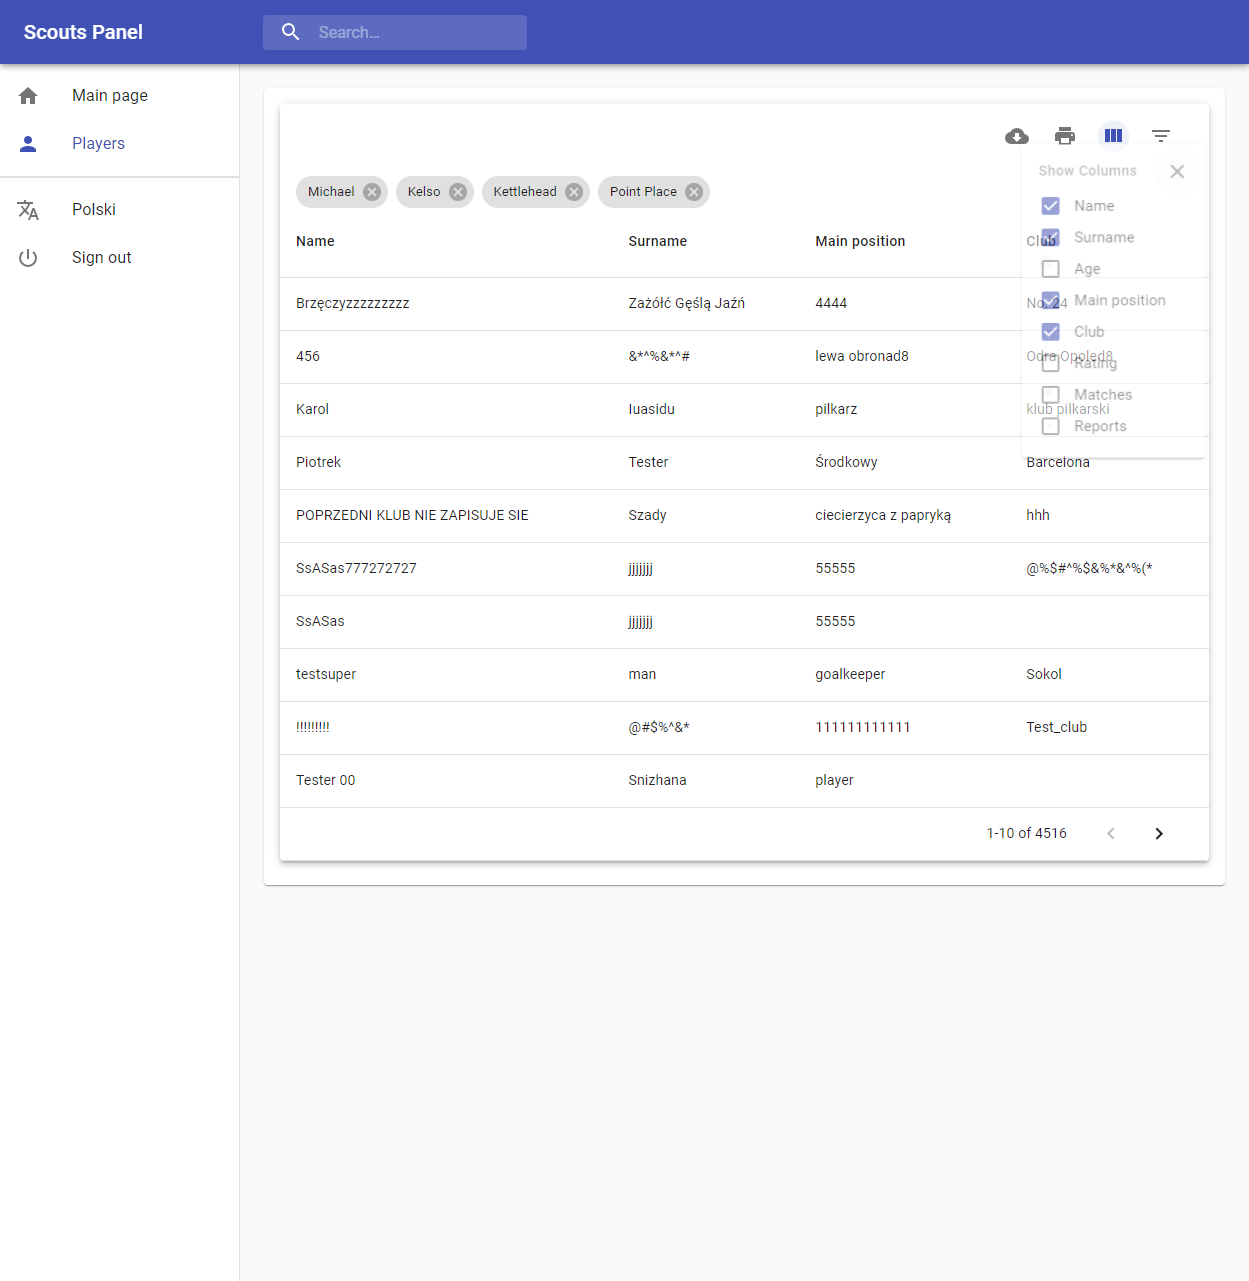
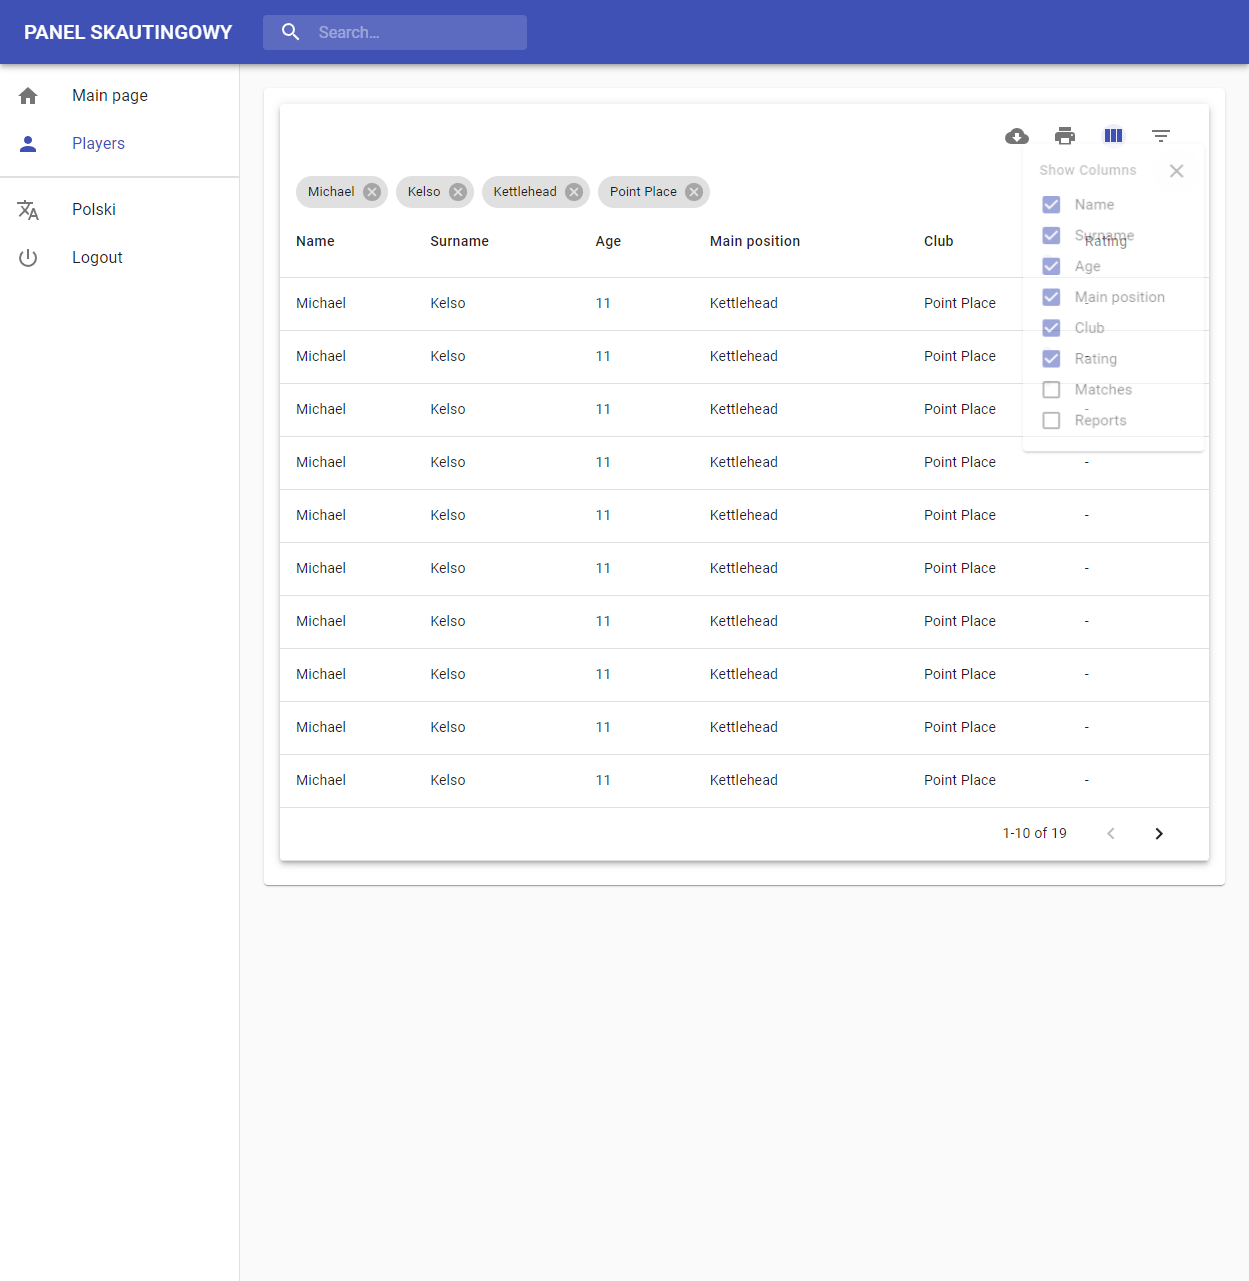
Task 6 - 31.07.2023

diff --git a/log.html b/log.html
@@ -1806,25 +1806,25 @@ function stopPropagation(event) {
 window.output = {};
 </script>
 <script type="text/javascript">
-window.output["suite"] = [1,2,3,0,[],[0,0,9847],[[4,5,6,7,[],[0,16,9831],[],[[8,0,0,[],[0,126,9721,9],[[0,10,0,0,0,0,0,0,[1,126,1439],[[0,11,12,0,13,14,0,0,[1,126,1431],[[126,2,15]]],[0,16,12,0,17,18,0,0,[1,1557,8],[[1565,2,19]]]]],[0,20,0,0,0,0,0,0,[1,1565,182],[[0,21,12,0,22,23,0,0,[1,1565,182],[[1566,2,24]]]]],[0,25,0,0,0,0,0,0,[1,1748,84],[[0,21,12,0,22,26,0,0,[1,1748,84],[[1748,2,27]]]]],[0,28,0,0,0,0,0,0,[1,1833,44],[[0,29,12,0,30,31,0,0,[1,1833,44],[[1833,2,32]]]]],[0,33,0,0,0,0,0,0,[1,1888,545],[[0,34,12,0,35,36,0,0,[1,1888,434],[]],[0,37,12,0,38,39,0,0,[1,2323,110],[[2433,2,40]]]]],[0,41,0,0,0,0,0,0,[0,2435,5281],[[0,34,12,0,35,42,0,0,[0,2435,5281],[[7716,2,43],[7716,5,9]]],[0,16,12,0,17,44,0,0,[3,7716,0],[]],[0,37,12,0,38,45,0,0,[3,7716,0],[]]]],[2,46,12,0,47,0,0,0,[1,7716,2131],[]]]]],[],[1,0,1,0]]],[],[],[1,0,1,0]];
+window.output["suite"] = [1,2,3,0,[],[1,0,8388],[[4,5,6,7,[],[1,16,8372],[],[[8,0,0,[],[1,126,8262],[[0,9,0,0,0,0,0,0,[1,126,1387],[[0,10,11,0,12,13,0,0,[1,126,1387],[[126,2,14]]],[0,15,11,0,16,17,0,0,[1,1513,0],[[1513,2,18]]]]],[0,19,0,0,0,0,0,0,[1,1513,171],[[0,20,11,0,21,22,0,0,[1,1513,171],[[1513,2,23]]]]],[0,24,0,0,0,0,0,0,[1,1684,93],[[0,20,11,0,21,25,0,0,[1,1684,93],[[1684,2,26]]]]],[0,27,0,0,0,0,0,0,[1,1778,30],[[0,28,11,0,29,30,0,0,[1,1778,30],[[1779,2,31]]]]],[0,32,0,0,0,0,0,0,[1,1808,1943],[[0,33,11,0,34,35,0,0,[1,1818,1898],[]],[0,28,11,0,29,35,0,0,[1,3716,35],[[3717,2,36]]]]],[0,37,0,0,0,0,0,0,[1,3751,1667],[[0,33,11,0,34,38,0,0,[1,3751,1049],[]],[0,28,11,0,29,38,0,0,[1,4800,42],[[4801,2,39]]],[0,20,11,0,21,40,0,0,[1,4842,134],[[4842,2,41]]],[0,20,11,0,21,42,0,0,[1,4976,99],[[4977,2,43]]],[0,20,11,0,21,44,0,0,[1,5075,139],[[5076,2,45]]],[0,20,11,0,21,46,0,0,[1,5214,156],[[5214,2,47]]],[0,28,11,0,29,48,0,0,[1,5370,33],[[5370,2,49]]],[0,33,11,0,34,50,0,0,[1,5403,15],[]]]],[0,51,0,0,0,0,0,0,[1,5418,735],[[0,28,11,0,29,52,0,0,[1,5418,357],[[5418,2,53]]],[0,28,11,0,29,54,0,0,[1,5775,47],[[5775,2,55]]],[0,28,11,0,29,56,0,0,[1,5822,51],[[5822,2,57]]],[0,28,11,0,29,58,0,0,[1,5873,44],[[5873,2,59]]],[0,28,11,0,29,60,0,0,[1,5917,65],[[5917,2,61]]],[0,28,11,0,29,62,0,0,[1,5982,37],[[5982,2,63]]],[0,64,11,0,65,66,0,0,[1,6019,134],[[6153,2,67]]]]],[0,68,0,0,0,0,0,0,[1,6153,119],[[0,64,11,0,65,69,0,0,[1,6153,119],[[6272,2,70]]]]],[2,71,11,0,72,0,0,0,[1,6272,2116],[]]]]],[],[1,1,0,0]]],[],[],[1,1,0,0]];
 </script>
 <script type="text/javascript">
 window.output["strings"] = [];
 </script>
 <script type="text/javascript">
-window.output["strings"] = window.output["strings"].concat(["*","*ScoutsTest robotframework","*C:\\Users\\jakub\\OneDrive\\Dokumenty\\GitHub\\ScoutsTest_robotframework","*.","*Test Login Rf","*C:\\Users\\jakub\\OneDrive\\Dokumenty\\GitHub\\ScoutsTest_robotframework\\test_login_rf.robot","*test_login_rf.robot","*<p>Suite description\x3c/p>","*Login Invalid Password","*Element 'xpath=//div[@title='Logo Scouts Panel']' not visible after 5 seconds.","*Open Login Page","*Open Browser","*SeleniumLibrary","*<p>Opens a new browser instance to the optional <code>url\x3c/code>.\x3c/p>","*${LOGIN URL}, ${BROWSER}","*Opening browser 'Chrome' to base url '<a href=\"https://scouts-test.futbolkolektyw.pl/en\">https://scouts-test.futbolkolektyw.pl/en\x3c/a>'.","*Title Should Be","*<p>Verifies that the current page title equals <code>title\x3c/code>.\x3c/p>","*Scouts panel - sign in","*Page title is 'Scouts panel - sign in'.","*Type In Email","*Input Text","*<p>Types the given <code>text\x3c/code> into the text field identified by <code>locator\x3c/code>.\x3c/p>","*${EMAILINPUT}, user09@getnada.com","*Typing text 'user09@getnada.com' into text field 'xpath=//*[@id='login']'.","*Type In Invalid Password","*${PASSWORDINPUT}, test-4321","*Typing text 'test-4321' into text field 'xpath=//*[@id='password']'.","*Click On The Submit Button","*Click Element","*<p>Click the element identified by <code>locator\x3c/code>.\x3c/p>","*xpath=//button[@type='submit']","*Clicking element 'xpath=//button[@type='submit']'.","*Assert Ident Notification","*Wait Until Element Is Visible","*<p>Waits until the element <code>locator\x3c/code> is visible.\x3c/p>","*${LOGINPAGENOTIFIDENT}","*Capture Page Screenshot","*<p>Takes a screenshot of the current page and embeds it into a log file.\x3c/p>","*identnotif.png","*\x3c/td>\x3c/tr><tr><td colspan=\"3\"><a href=\"identnotif.png\"><img src=\"identnotif.png\" width=\"800px\">\x3c/a>","*Assert Dashboard","*${PAGELOGO}","*\x3c/td>\x3c/tr><tr><td colspan=\"3\"><a href=\"selenium-screenshot-3.png\"><img src=\"selenium-screenshot-3.png\" width=\"800px\">\x3c/a>","*Scouts panel","*alert.png","*Close Browser","*<p>Closes the current browser.\x3c/p>"]);
+window.output["strings"] = window.output["strings"].concat(["*","*ScoutsTest robotframework","*C:\\Users\\jakub\\OneDrive\\Dokumenty\\GitHub\\ScoutsTest_robotframework","*.","*Test Login Rf","*C:\\Users\\jakub\\OneDrive\\Dokumenty\\GitHub\\ScoutsTest_robotframework\\test_login_rf.robot","*test_login_rf.robot","*<p>Suite description\x3c/p>","*Search Filter Table","*Open Login Page","*Open Browser","*SeleniumLibrary","*<p>Opens a new browser instance to the optional <code>url\x3c/code>.\x3c/p>","*${LOGIN URL}, ${BROWSER}","*Opening browser 'Chrome' to base url '<a href=\"https://dareit.futbolkolektyw.pl/en\">https://dareit.futbolkolektyw.pl/en\x3c/a>'.","*Title Should Be","*<p>Verifies that the current page title equals <code>title\x3c/code>.\x3c/p>","*Scouts panel - sign in","*Page title is 'Scouts panel - sign in'.","*Type In Email","*Input Text","*<p>Types the given <code>text\x3c/code> into the text field identified by <code>locator\x3c/code>.\x3c/p>","*${EMAILINPUT}, user09@getnada.com","*Typing text 'user09@getnada.com' into text field 'xpath=//*[@id='login']'.","*Type In Password","*${PASSWORDINPUT}, Test-1234","*Typing text 'Test-1234' into text field 'xpath=//*[@id='password']'.","*Click On The Submit Button","*Click Element","*<p>Click the element identified by <code>locator\x3c/code>.\x3c/p>","*xpath=//button[@type='submit']","*Clicking element 'xpath=//button[@type='submit']'.","*Click On Players","*Wait Until Element Is Visible","*<p>Waits until the element <code>locator\x3c/code> is visible.\x3c/p>","*${PLAYERSBUTTON}","*Clicking element 'xpath=//span[text()='Players']'.","*Fill filters","*${FILTERSTABLEBUTTON}","*Clicking element 'xpath=//*[@title='Filter Table']'.","*${FILTERSNAMEINPUT}, Michael","*Typing text 'Michael' into text field 'xpath=//div[2]/div[1]/div/div/div/input'.","*${FILTERSSURNAMEINPUT}, Kelso","*Typing text 'Kelso' into text field 'xpath=//div/div[2]/div[2]/div/div/div/input'.","*${FILTERSMAINPOSITIONINPUT}, Kettlehead","*Typing text 'Kettlehead' into text field 'xpath=//div[2]/div[4]/div/div/div/input'.","*${FILTERSCLUBINPUT}, Point Place","*Typing text 'Point Place' into text field 'xpath=//div[2]/div[5]/div/div/div/input'.","*${FILTERSCLOSEBUTTON}","*Clicking element 'xpath=/html/body/div[2]/div[3]/button'.","*${FILTERSSEARCH}","*Choose Columns","*${COLUMNSVIEWBUTTON}","*Clicking element 'xpath=//*[@title='View Columns']'.","*${COLUMNSAGEBOX}","*Clicking element 'xpath=//*[@value='age']'.","*${COLUMNSRATINGBOX}","*Clicking element 'xpath=//*[@value='rating']'.","*${COLUMNSMATCHESBOX}","*Clicking element 'xpath=//*[@value='matches']'.","*${COLUMNSREPORTSBOX}","*Clicking element 'xpath=//*[@value='reports']'.","*${COLUMNSCLOSEBUTTON}","*Clicking element 'xpath=//body/div[2]/div[3]/button'.","*Capture Page Screenshot","*<p>Takes a screenshot of the current page and embeds it into a log file.\x3c/p>","*search_filter_table.png","*\x3c/td>\x3c/tr><tr><td colspan=\"3\"><a href=\"search_filter_table.png\"><img src=\"search_filter_table.png\" width=\"800px\">\x3c/a>","*Screenshot Plz","*alert.png","*\x3c/td>\x3c/tr><tr><td colspan=\"3\"><a href=\"alert.png\"><img src=\"alert.png\" width=\"800px\">\x3c/a>","*Close Browser","*<p>Closes the current browser.\x3c/p>"]);
 </script>
 <script type="text/javascript">
-window.output["stats"] = [[{"elapsed":"00:00:10","fail":1,"label":"All Tests","pass":0,"skip":0}],[],[{"elapsed":"00:00:10","fail":1,"id":"s1","label":"ScoutsTest robotframework","name":"ScoutsTest robotframework","pass":0,"skip":0},{"elapsed":"00:00:10","fail":1,"id":"s1-s1","label":"ScoutsTest robotframework.Test Login Rf","name":"Test Login Rf","pass":0,"skip":0}]];
+window.output["stats"] = [[{"elapsed":"00:00:08","fail":0,"label":"All Tests","pass":1,"skip":0}],[],[{"elapsed":"00:00:08","fail":0,"id":"s1","label":"ScoutsTest robotframework","name":"ScoutsTest robotframework","pass":1,"skip":0},{"elapsed":"00:00:08","fail":0,"id":"s1-s1","label":"ScoutsTest robotframework.Test Login Rf","name":"Test Login Rf","pass":1,"skip":0}]];
 </script>
 <script type="text/javascript">
 window.output["errors"] = [];
 </script>
 <script type="text/javascript">
-window.output["baseMillis"] = 1690736601378;
+window.output["baseMillis"] = 1690825078203;
 </script>
 <script type="text/javascript">
-window.output["generated"] = 9862;
+window.output["generated"] = 8387;
 </script>
 <script type="text/javascript">
 window.output["expand_keywords"] = null;

diff --git a/report.html b/report.html
@@ -1629,22 +1629,22 @@ storage = function () {
 window.output = {};
 </script>
 <script type="text/javascript">
-window.output["suite"] = [1,2,3,0,[],[0,0,9847],[[4,5,6,7,[],[0,16,9831],[],[[8,0,0,[],[0,126,9721,9],[]]],[],[1,0,1,0]]],[],[],[1,0,1,0]];
+window.output["suite"] = [1,2,3,0,[],[1,0,8388],[[4,5,6,7,[],[1,16,8372],[],[[8,0,0,[],[1,126,8262],[]]],[],[1,1,0,0]]],[],[],[1,1,0,0]];
 </script>
 <script type="text/javascript">
 window.output["strings"] = [];
 </script>
 <script type="text/javascript">
-window.output["strings"] = window.output["strings"].concat(["*","*ScoutsTest robotframework","*C:\\Users\\jakub\\OneDrive\\Dokumenty\\GitHub\\ScoutsTest_robotframework","*.","*Test Login Rf","*C:\\Users\\jakub\\OneDrive\\Dokumenty\\GitHub\\ScoutsTest_robotframework\\test_login_rf.robot","*test_login_rf.robot","*<p>Suite description\x3c/p>","*Login Invalid Password","*Element 'xpath=//div[@title='Logo Scouts Panel']' not visible after 5 seconds."]);
+window.output["strings"] = window.output["strings"].concat(["*","*ScoutsTest robotframework","*C:\\Users\\jakub\\OneDrive\\Dokumenty\\GitHub\\ScoutsTest_robotframework","*.","*Test Login Rf","*C:\\Users\\jakub\\OneDrive\\Dokumenty\\GitHub\\ScoutsTest_robotframework\\test_login_rf.robot","*test_login_rf.robot","*<p>Suite description\x3c/p>","*Search Filter Table"]);
 </script>
 <script type="text/javascript">
-window.output["stats"] = [[{"elapsed":"00:00:10","fail":1,"label":"All Tests","pass":0,"skip":0}],[],[{"elapsed":"00:00:10","fail":1,"id":"s1","label":"ScoutsTest robotframework","name":"ScoutsTest robotframework","pass":0,"skip":0},{"elapsed":"00:00:10","fail":1,"id":"s1-s1","label":"ScoutsTest robotframework.Test Login Rf","name":"Test Login Rf","pass":0,"skip":0}]];
+window.output["stats"] = [[{"elapsed":"00:00:08","fail":0,"label":"All Tests","pass":1,"skip":0}],[],[{"elapsed":"00:00:08","fail":0,"id":"s1","label":"ScoutsTest robotframework","name":"ScoutsTest robotframework","pass":1,"skip":0},{"elapsed":"00:00:08","fail":0,"id":"s1-s1","label":"ScoutsTest robotframework.Test Login Rf","name":"Test Login Rf","pass":1,"skip":0}]];
 </script>
 <script type="text/javascript">
-window.output["baseMillis"] = 1690736601378;
+window.output["baseMillis"] = 1690825078203;
 </script>
 <script type="text/javascript">
-window.output["generated"] = 9862;
+window.output["generated"] = 8387;
 </script>
 <script type="text/javascript">
 window.output["expand_keywords"] = null;
